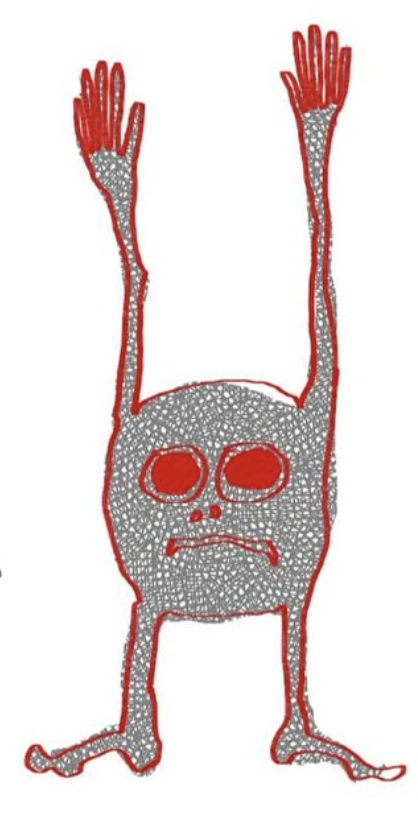
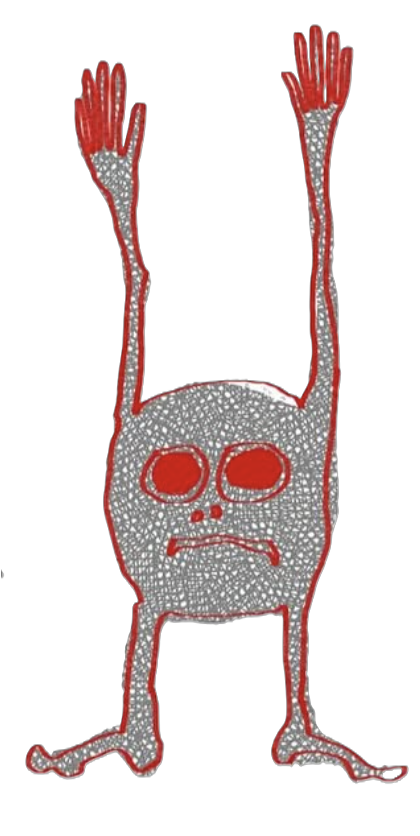
박소은 work2 손가락과 같은 높이로

diff --git a/index.html b/index.html
@@ -402,6 +402,12 @@
     const cursor = document.getElementById('cursor');
     document.addEventListener('mousemove', e => { cursor.style.left = e.clientX + 'px'; cursor.style.top = e.clientY + 'px'; });
     document.addEventListener('mouseover', e => {
+      if (window._soeunCanvas) {
+        // 소은 페이지: 헤더 위면 비활성화, 아니면 활성화
+        if (e.target.closest('header, .artist-page-header, .back-btn')) cursor.classList.remove('hover');
+        else cursor.classList.add('hover');
+        return;
+      }
       if (e.target.closest('.tile, .back-btn, a.logo')) cursor.classList.add('hover');
       else cursor.classList.remove('hover');
     });
@@ -430,8 +436,9 @@
       {
         name: '박소은 / Soeun Park', genre: 'Oriental Paint', works: '— works', color: '#12201a', display: 'b',
         adjectives: ['자기소개'],
-        html: `<div style="position:relative; width:100%; height:100%;">
+        html: `<div style="position:relative; width:100%; height:100%; background:#000; min-height:100vh;">
   <img id="soeun-hand" src="soeun/work1.png" style="width:300px; height:auto; position:absolute; top:2rem; left:2rem; transform-origin:center center; transition:transform 0.1s ease;">
+  <img src="soeun/work2.png" style="width:220px; height:auto; position:absolute; top:2rem; right:2rem;">
 </div>`,
       },
       {
@@ -566,7 +573,17 @@
       document.getElementById('artist-works').innerHTML = a.html;
       document.getElementById('page-artist').classList.add('visible');
       document.getElementById('page-artist').scrollTop = 0;
-      if (a.display === 'b') initTilt();
+      if (a.display === 'b') {
+        document.getElementById('page-artist').style.background = '#000';
+        document.getElementById('page-artist').style.color = '#fff';
+        document.getElementById('header-artist-name').style.color = '#fff';
+        document.getElementById('artist-meta').style.color = 'rgba(255,255,255,0.5)';
+        document.querySelector('.back-btn').style.color = 'rgba(255,255,255,0.5)';
+        document.querySelector('.artist-page-header').style.borderColor = 'rgba(255,255,255,0.1)';
+        
+        initTilt();
+      }
+      if (a.display !== 'b') document.getElementById('page-artist').style.background = 'var(--bg)';
       if (a.display === 'a') initDrag();
       if (a.display === 'c') {
         document.getElementById('fly-canvas').style.display = 'block';
@@ -576,6 +593,7 @@
     }
 
 function closeArtist() {
+  if (window._soeunCanvas) { window._soeunCanvas._remove(); window._soeunCanvas = null; }
   if (window._fliesAbort) { window._fliesAbort.abort(); window._fliesAbort = null; }
   const fc = document.getElementById('fly-canvas');
   if (fc && fc._stop) { fc._stop(); fc._stop = null; }
@@ -583,9 +601,9 @@ function closeArtist() {
   const bc = document.getElementById('bounce-canvas');
   if (bc && bc._stop) { bc._stop(); bc._stop = null; }
   cursor.classList.remove('hover');
+  document.getElementById('page-artist').style.background = 'var(--bg)';
   document.getElementById('page-artist').classList.remove('visible');
   document.getElementById('artist-works').innerHTML = '';
-  // stage의 타일만 리셋 (페이지 내부 타일 제외)
   document.querySelectorAll('#stage .tile-back').forEach(back => {
     if (back._stopAnim) back._stopAnim();
     back._filled = false;
@@ -921,7 +939,7 @@ let animFrame;
           const py = Math.round((mouseY - rect.top) * scaleY);
           const pixel = ctx.getImageData(px, py, 1, 1).data;
           if (pixel[3] > 20) {
-            cursor.classList.add('hover');
+           cursor.classList.add('hover');
             isHovering = true;
             for (const b of balls) {
               if (mouseX > b.x && mouseX < b.x + b.w && mouseY > b.y && mouseY < b.y + b.h) {
@@ -963,19 +981,155 @@ canvas.addEventListener('click', e => {
       loop();
       canvas._stop = () => { active = false; cancelAnimationFrame(animFrame); };
     }
+    
     function initTilt() {
       setTimeout(() => {
         const img = document.getElementById('soeun-hand');
         if (!img) return;
-        document.getElementById('page-artist').addEventListener('mousemove', e => {
+        cursor.classList.add('hover');
+        cursor.style.borderColor = '#fff';
+        const cursorStyle = document.createElement('style');
+        cursorStyle.id = 'soeun-cursor-style';
+        cursorStyle.textContent = '.cursor { background: #fff !important; } .cursor.hover { border-color: #fff !important; background: transparent !important; }';
+        document.head.appendChild(cursorStyle);
+
+        const beamCanvas = document.createElement('canvas');
+        beamCanvas.style.cssText = 'position:fixed;top:0;left:0;pointer-events:none;z-index:200;';
+        beamCanvas.width = window.innerWidth;
+        beamCanvas.height = window.innerHeight;
+        document.body.appendChild(beamCanvas);
+        const bctx = beamCanvas.getContext('2d');
+
+        let beams = [];
+        let charging = false, chargeStart = 0, chargeLevel = 0;
+        let lastMouseX = 0, lastMouseY = 0;
+
+        function getTip() {
           const r = img.getBoundingClientRect();
           const cx = r.left + r.width / 2;
           const cy = r.top + r.height / 2;
-          const angle = Math.atan2(e.clientY - cy, e.clientX - cx) * 180 / Math.PI;
-          img.style.transform = `rotate(${angle}deg)`;
+          const angle = Math.atan2(lastMouseY - cy, lastMouseX - cx);
+          return { x: cx + Math.cos(angle) * r.width * 0.48, y: cy + Math.sin(angle) * r.width * 0.48 };
+        }
+
+        function drawLoop() {
+          bctx.clearRect(0, 0, beamCanvas.width, beamCanvas.height);
+
+          // 충전 효과
+          if (charging) {
+            chargeLevel = Math.min(1, (Date.now() - chargeStart) / 600);
+            const tip = getTip();
+            const radius = 4 + chargeLevel * 18;
+            const grd = bctx.createRadialGradient(tip.x, tip.y, 0, tip.x, tip.y, radius);
+            grd.addColorStop(0, `rgba(255,255,255,${0.9 * chargeLevel})`);
+            grd.addColorStop(0.4, `rgba(200,200,200,${0.5 * chargeLevel})`);
+            grd.addColorStop(1, 'rgba(255,255,255,0)');
+            bctx.beginPath();
+            bctx.arc(tip.x, tip.y, radius, 0, Math.PI * 2);
+            bctx.fillStyle = grd;
+            bctx.fill();
+            bctx.beginPath();
+            bctx.arc(tip.x, tip.y, radius * 0.6, 0, Math.PI * 2);
+            bctx.strokeStyle = `rgba(255,255,255,${0.6 * chargeLevel})`;
+            bctx.lineWidth = 1.5;
+            bctx.stroke();
+          }
+
+          // 빔 그리기
+          beams = beams.filter(b => b.alpha > 0);
+          beams.forEach(b => {
+            const dx = b.x2 - b.x1, dy = b.y2 - b.y1;
+            const len = Math.sqrt(dx*dx + dy*dy) || 1;
+            const nx = -dy/len, ny = dx/len;
+            bctx.save();
+
+            const outerGrd = bctx.createLinearGradient(b.x1, b.y1, b.x2, b.y2);
+            outerGrd.addColorStop(0, `rgba(255,255,255,0)`);
+            outerGrd.addColorStop(0.2, `rgba(255,255,255,${b.alpha * 0.15})`);
+            outerGrd.addColorStop(0.5, `rgba(200,200,200,${b.alpha * 0.25})`);
+            outerGrd.addColorStop(0.8, `rgba(255,255,255,${b.alpha * 0.15})`);
+            outerGrd.addColorStop(1, `rgba(255,255,255,0)`);
+            bctx.strokeStyle = outerGrd;
+            bctx.lineWidth = 28; bctx.lineCap = 'round';
+            bctx.shadowColor = 'rgba(255,255,255,0.3)'; bctx.shadowBlur = 20;
+            bctx.beginPath(); bctx.moveTo(b.x1, b.y1); bctx.lineTo(b.x2, b.y2); bctx.stroke();
+
+            bctx.shadowBlur = 12;
+            bctx.strokeStyle = `rgba(180,180,180,${b.alpha * 0.5})`; bctx.lineWidth = 14;
+            bctx.beginPath(); bctx.moveTo(b.x1, b.y1); bctx.lineTo(b.x2, b.y2); bctx.stroke();
+
+            bctx.shadowBlur = 6;
+            bctx.strokeStyle = `rgba(230,230,230,${b.alpha * 0.85})`; bctx.lineWidth = 6;
+            bctx.beginPath(); bctx.moveTo(b.x1, b.y1); bctx.lineTo(b.x2, b.y2); bctx.stroke();
+
+            bctx.shadowBlur = 0;
+            bctx.strokeStyle = `rgba(255,255,255,${b.alpha})`; bctx.lineWidth = 2.5;
+            bctx.beginPath(); bctx.moveTo(b.x1, b.y1); bctx.lineTo(b.x2, b.y2); bctx.stroke();
+
+            if (b.alpha > 0.4) {
+              bctx.strokeStyle = `rgba(255,255,255,${b.alpha * 0.4})`; bctx.lineWidth = 1;
+              bctx.beginPath(); bctx.moveTo(b.x1, b.y1);
+              for (let t = 0.05; t < 1; t += 0.08) {
+                bctx.lineTo(b.x1 + dx*t + nx*(Math.random()-0.5)*10, b.y1 + dy*t + ny*(Math.random()-0.5)*10);
+              }
+              bctx.lineTo(b.x2, b.y2); bctx.stroke();
+            }
+
+            const flashGrd = bctx.createRadialGradient(b.x1, b.y1, 0, b.x1, b.y1, 16 + (1-b.alpha)*5);
+            flashGrd.addColorStop(0, `rgba(255,255,255,${b.alpha * 0.9})`);
+            flashGrd.addColorStop(1, `rgba(255,255,255,0)`);
+            bctx.beginPath(); bctx.arc(b.x1, b.y1, 16, 0, Math.PI*2);
+            bctx.fillStyle = flashGrd; bctx.fill();
+
+            const impactR = (1 - b.alpha) * 40 * (0.5 + b.power * 0.5);
+            if (impactR > 0) {
+              bctx.globalAlpha = b.alpha * 0.8;
+              bctx.beginPath(); bctx.arc(b.x2, b.y2, impactR, 0, Math.PI*2);
+              bctx.strokeStyle = '#fff'; bctx.lineWidth = 2;
+              bctx.shadowBlur = 8; bctx.shadowColor = '#fff'; bctx.stroke();
+            }
+
+            bctx.restore();
+            b.alpha -= 0.018;
+          });
+
+          requestAnimationFrame(drawLoop);
+        }
+        drawLoop();
+
+        const pageEl = document.getElementById('page-artist');
+        pageEl.addEventListener('mousemove', e => {
+          lastMouseX = e.clientX; lastMouseY = e.clientY;
+          const r = img.getBoundingClientRect();
+          const cx = r.left + r.width / 2, cy = r.top + r.height / 2;
+          img.style.transform = `rotate(${Math.atan2(e.clientY-cy, e.clientX-cx)*180/Math.PI}deg)`;
         });
+        pageEl.addEventListener('mousedown', e => {
+          if (e.target.closest('.artist-page-header, .back-btn')) return;
+          charging = true; chargeStart = Date.now(); chargeLevel = 0;
+        });
+        pageEl.addEventListener('mouseup', e => {
+          if (!charging) return;
+          charging = false;
+          const tip = getTip();
+          beams.push({ x1: tip.x, y1: tip.y, x2: e.clientX, y2: e.clientY, alpha: 1, power: chargeLevel });
+          chargeLevel = 0;
+        });
+
+        beamCanvas._remove = () => {
+          cursor.classList.remove('hover');
+          cursor.style.borderColor = '';
+          const s = document.getElementById('soeun-cursor-style');
+          if (s) s.remove();
+          beamCanvas.remove();
+        };
+        window._soeunCanvas = beamCanvas;
       }, 100);
     }
+     
+       
+      
+       
   </script>
 </body>
 
